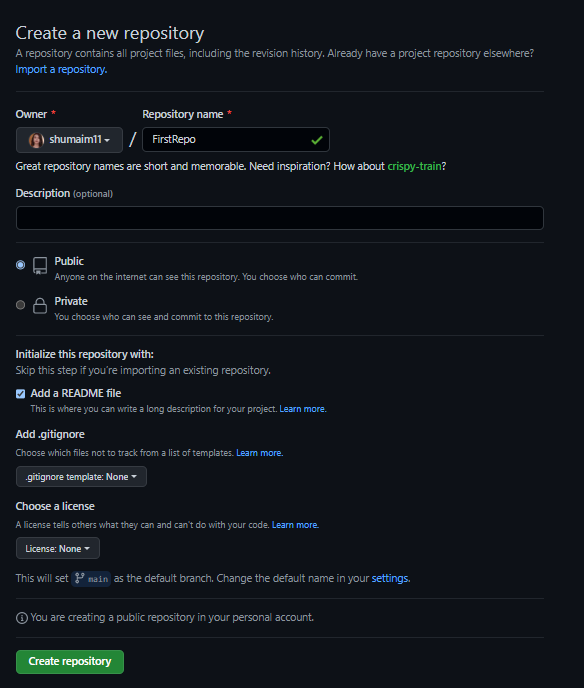
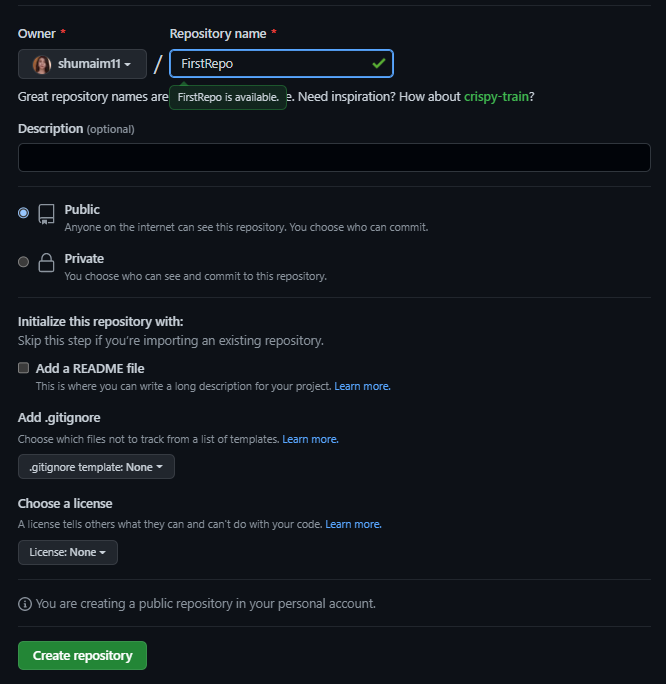
Set the size of image for creating 1st repo

Changed region(s): [[0.0308, 0.3684, 0.7089, 0.9825], [0.0308, 0.0307, 0.9247, 0.3377]]

diff --git a/index.html b/index.html
@@ -102,7 +102,7 @@
         <div class="ml-20 flex flex-col">
             <code>git init</code>
         </div>
-        <img class="center mt-40 mb-40" width="756" height="122" src="assets/images/Initialized%20git.png"
+        <img class="center mt-40 mb-40" width="651" height="161" src="assets/images/git%20init.png"
              alt="git init command">
 
         <p class="para">Something called the "master" appears on the screen. Whenever a Git repository is created for
@@ -197,7 +197,7 @@
         <p class="para">Now, let's push the two notepads on GitHub. Open your GitHub account, and create a new
             repository. The name of the repository will be "FirstRepo."
         </p>
-        <img class="center mt-40 mb-40" width="584" height="688" src="assets/images/firstrepo.png"
+        <img class="center mt-40 mb-40" width="666" height="684" src="assets/images/firstrepo.png"
              alt="Creating the first repository on GitHub account">
 
         <p class="para">Copy the "git remote add origin" URL.
